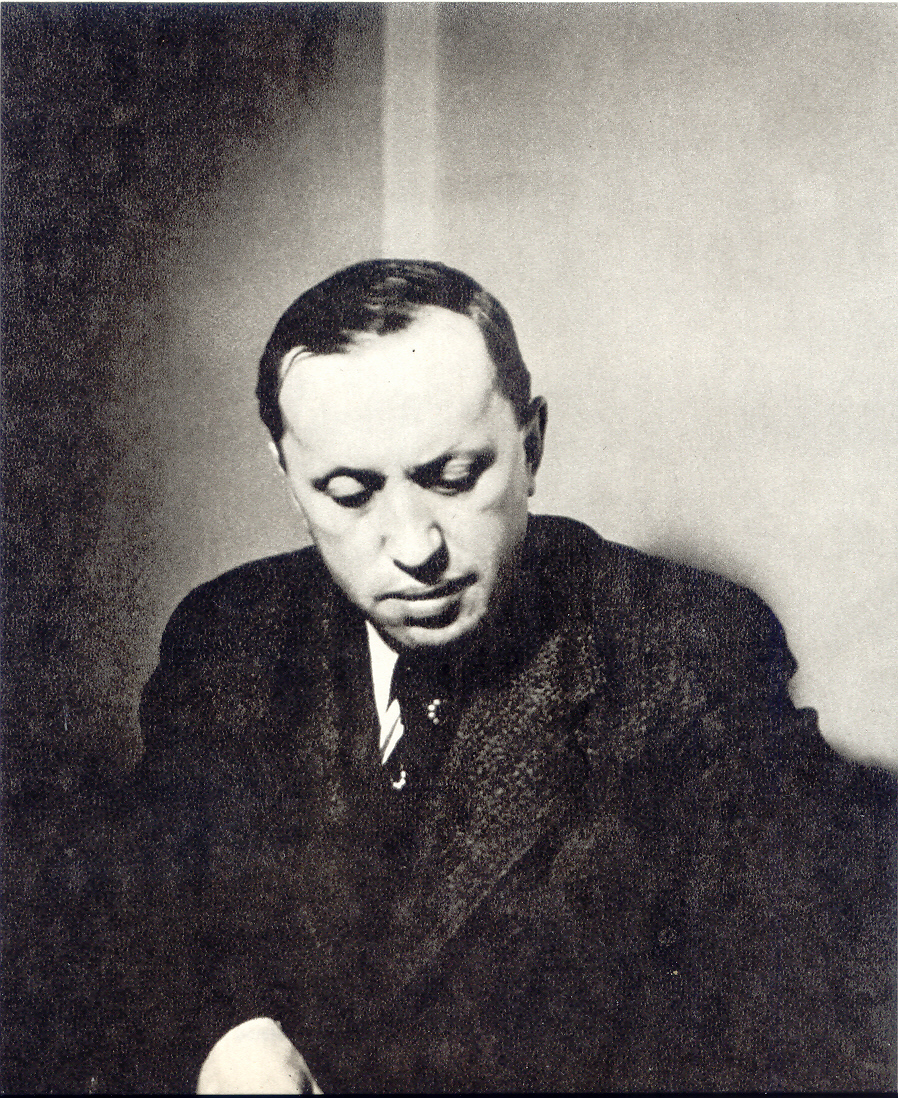
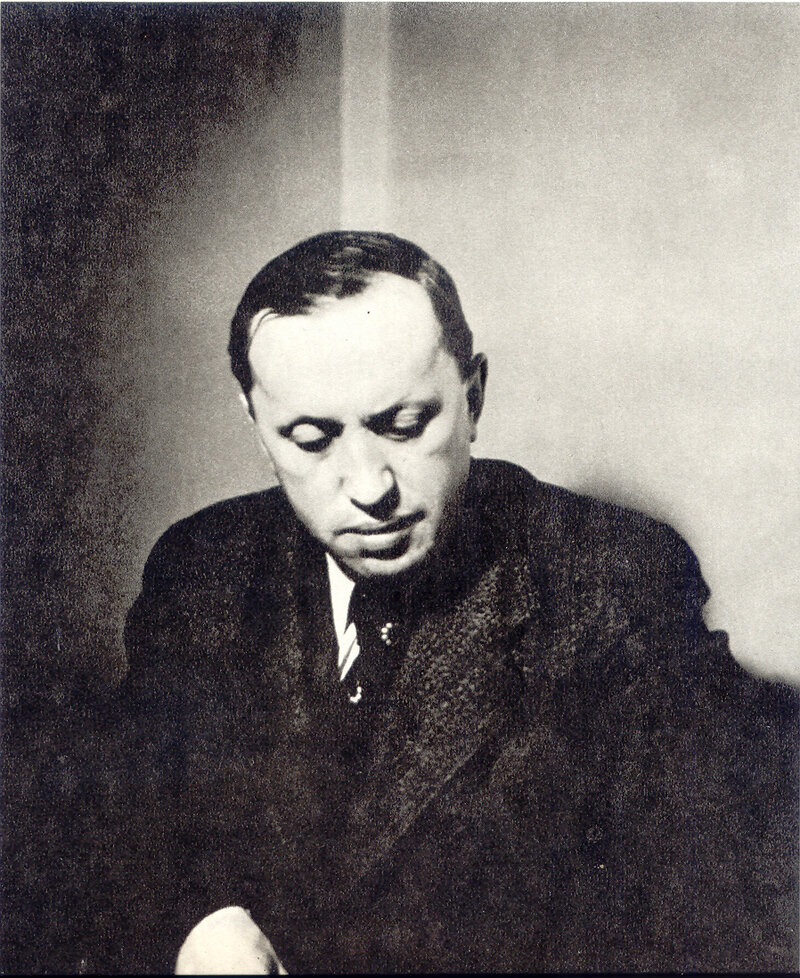
content: 11 more author portraits + Hrabal retry with CC credit, compress images

diff --git a/src/lib/markdown/rehype-author-portrait.ts b/src/lib/markdown/rehype-author-portrait.ts
@@ -15,7 +15,7 @@
 import { visit } from 'unist-util-visit';
 import type { Root, Element, ElementContent } from 'hast';
 import type { VFile } from 'vfile';
-import { findAuthorImage } from './author-image';
+import { findAuthorImage, findAuthorCredit } from './author-image';
 
 const NOT_A_PERSON_RE = /^(Realismus|Naturalismus)\b/;
 
@@ -61,7 +61,16 @@ function placeholderFigure(name: string): Element {
 	};
 }
 
-function photoFigure(src: string, name: string): Element {
+function photoFigure(src: string, name: string, credit: string | null): Element {
+	const captionChildren: ElementContent[] = [{ type: 'text', value: name }];
+	if (credit) {
+		captionChildren.push({
+			type: 'element',
+			tagName: 'span',
+			properties: { className: ['author-photo-credit'] },
+			children: [{ type: 'text', value: `Foto: ${credit}` }],
+		});
+	}
 	return {
 		type: 'element',
 		tagName: 'figure',
@@ -73,7 +82,7 @@ function photoFigure(src: string, name: string): Element {
 				properties: { className: ['author-photo-img'], src, alt: name, loading: 'lazy' },
 				children: [],
 			},
-			{ type: 'element', tagName: 'figcaption', properties: {}, children: [{ type: 'text', value: name }] },
+			{ type: 'element', tagName: 'figcaption', properties: {}, children: captionChildren },
 		],
 	};
 }
@@ -95,7 +104,7 @@ export function rehypeAuthorPortrait() {
 			if (!text || NOT_A_PERSON_RE.test(text)) return;
 
 			const src = findAuthorImage(text);
-			const figure = src ? photoFigure(src, text) : placeholderFigure(text);
+			const figure = src ? photoFigure(src, text, findAuthorCredit(text)) : placeholderFigure(text);
 			parent.children.splice(index + 1, 0, figure as ElementContent);
 		});
 	};

diff --git a/src/lib/markdown/author-image.ts b/src/lib/markdown/author-image.ts
@@ -39,3 +39,15 @@ export function findAuthorImage(name: string): string | null {
 	}
 	return null;
 }
+
+// Most portraits are public domain (photographer/painter dead 70+ years) and
+// need no credit. The handful that are only CC-licensed (see CREDITS.md)
+// must show visible attribution next to the image, not just in the credits
+// file — keyed by the same slug as the image filename.
+const CC_CREDITS: Record<string, string> = {
+	'bohumil-hrabal': 'Hana Hamplová, CC BY-SA 3.0',
+};
+
+export function findAuthorCredit(name: string): string | null {
+	return CC_CREDITS[authorSlug(name)] ?? null;
+}

diff --git a/src/styles/global.css b/src/styles/global.css
@@ -217,6 +217,13 @@ h1 {
 	height: 30%;
 }
 
+.author-photo-credit {
+	display: block;
+	margin-top: 0.15rem;
+	font-size: 0.75em;
+	color: var(--muted);
+}
+
 /* Small icon-only link to this site's own book analysis
    (rehype-rozbor-link.ts) — sits right next to a work's title, which
    itself links to the full text when one is available. */

diff --git a/public/images/authors/CREDITS.md b/public/images/authors/CREDITS.md
@@ -20,12 +20,28 @@ legally required, but source is noted here for traceability.
 | anton-pavlovic-cechov.jpg | File:Anton Pavlovich Chekhov.jpg | Anton Pavlovič Čechov |
 | emile-zola.jpg | File:Émile Zola 1895.jpg | Émile Zola |
 | johann-wolfgang-goethe.jpg | File:Johann Wolfgang von Goethe (Josef Stieler).jpg — 1828 painting | Johann Wolfgang Goethe |
+| josef-jungmann.jpg | File:Antonín Machek - Portrait of Josef Jungmann.jpg — painting by Antonín Machek (d. 1846) | Josef Jungmann |
+| karel-jaromir-erben.jpg | File:Jan Vilímek - Karel Jaromír Erben.jpg | Karel Jaromír Erben |
+| karel-havlicek-borovsky.jpg | File:Karel Havlíček Borovský – Jan Vilímek – České album (cropped).jpg | Karel Havlíček Borovský |
+| jan-neruda.jpg | File:Jan Vilímek - Jan Neruda.jpg | Jan Neruda |
+| alois-jirasek.jpg | File:Jan Vilímek - Alois Jirásek.jpg | Alois Jirásek |
+| svatopluk-cech.jpg | File:Jan Vilímek - Svatopluk Čech.jpg | Svatopluk Čech |
+| jaroslav-vrchlicky.jpg | File:Jan Vilímek - Jaroslav Vrchlický.jpg | Jaroslav Vrchlický |
+| alexandr-sergejevic-puskin.jpg | File:Portrait of Alexander Pushkin (Orest Kiprensky, 1827).PNG | Alexandr Sergejevič Puškin |
+| nikolaj-vasiljevic-gogol.jpg | File:Моллер Фёдор - Портрет Н. В. Гоголя.jpg — painting by Fjodor Moller (d. 1905) | Nikolaj Vasiljevič Gogol |
+| charles-dickens.jpg | File:Charles Dickens by Daniel Maclise.jpg — painting by Daniel Maclise (d. 1870) | Charles Dickens |
+| george-gordon-byron.jpg | File:George Gordon Byron, 6th Baron Byron by Richard Westall.jpg (d. 1836) | George Gordon Byron |
+| jules-verne.jpg | File:Félix Nadar 1820-1910 portraits Jules Verne (restoration).jpg | Jules Verne |
 
-Not sourced yet (need a second attempt, download failed mid-session due to
-rate limiting): Bohumil Hrabal (candidate: File:Bohumil Hrabal (cropped).jpg,
-CC BY-SA 3.0 by Hana Hamplová — **this one is CC-BY-SA, not public domain,
-so if added later, credit "Hana Hamplová, CC BY-SA 3.0" must be shown
-somewhere, e.g. this file**).
+The Jan Vilímek portraits (1860–1938) are from his "České album" series of
+the 1880s–90s, published in period magazines (Humoristické listy, Zlatá
+Praha, Světozor); Vilímek died in 1938, so pma-70 is long past.
+
+| bohumil-hrabal.jpg | File:Bohumil Hrabal (cropped).jpg — **CC BY-SA 3.0, Hana Hamplová** (not PD — see credit line rendered under the photo itself, via `findAuthorCredit()` in `author-image.ts`) | Bohumil Hrabal |
+
+Not sourced yet (Wikimedia rate-limited the download mid-batch, retry
+later): Oscar Wilde (candidate: File:Oscar Wilde by Napoleon Sarony,
+1882.jpg — confirmed to exist and PD, just didn't download this round).
 
 Miguel de Cervantes was deliberately skipped — no authentic portrait of him
 is known to exist; every image commonly labeled as his is a later,
